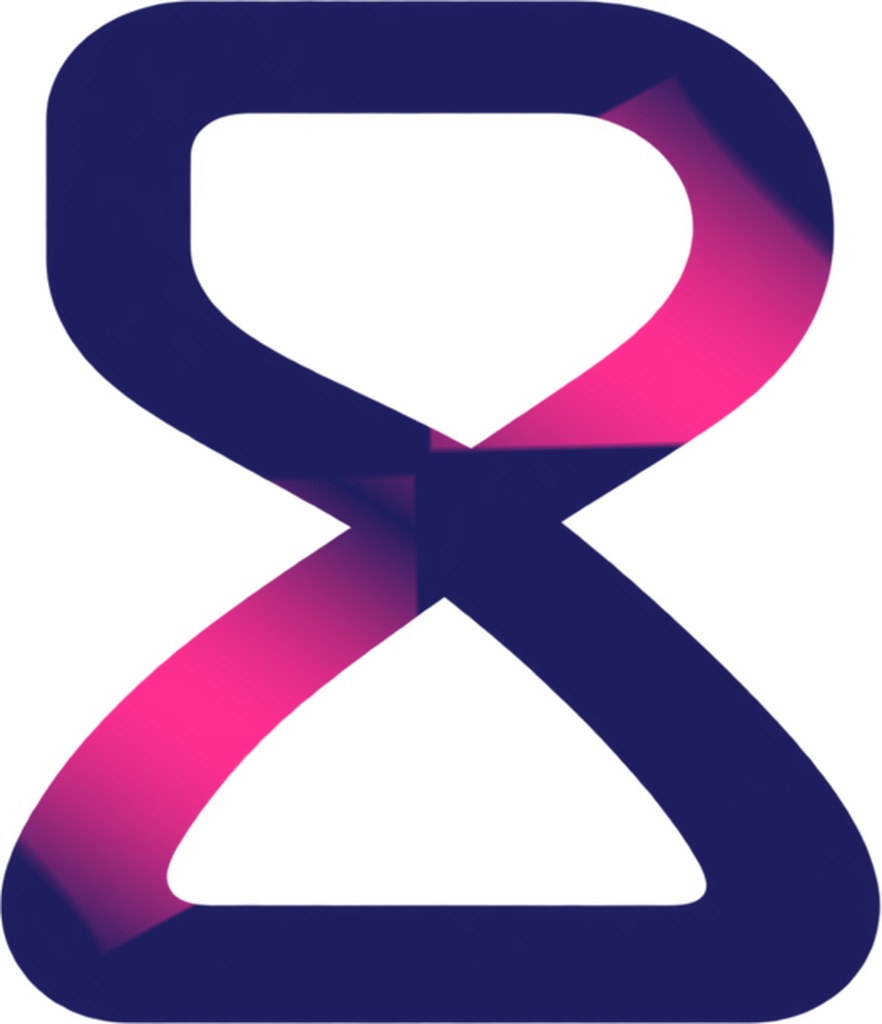
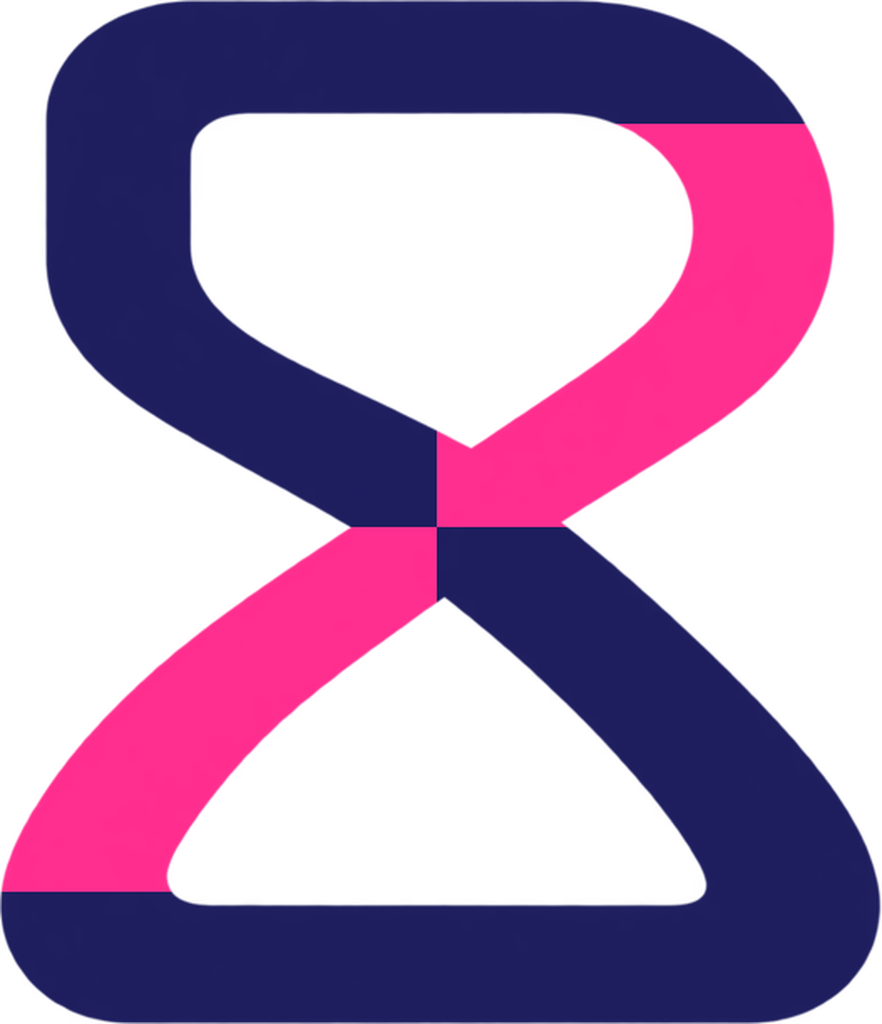
feat(web): 로고 교차부를 정리하고 상단바를 카드로 둔다
로고는 획을 실루엣에서 통째로 갈라 칠하고, 교차부는 두 획의 실제 중심을 이은 선을
기준으로 나눈다. 앞서는 직선을 눈대중으로 잡아 교차부에 얼룩이 남았다. 위아래
막대는 남색으로 두고 그 사이 획만 분홍이다. 자산도 22~1024px로 다시 뽑았다.

상단바가 회색 바탕에 맨몸으로 놓여 있어 모바일에서 위가 잘린 것처럼 보였다.
아래 카드들과 같은 흰 카드로 감싼다. 상세와 하위 화면 상단바 모두 같은 규칙이다.

Changed region(s): [[0.2449, 0.375, 0.7653, 0.6875], [0.6735, 0.0625, 0.949, 0.3438], [0.0, 0.7188, 0.2449, 0.9375]]

diff --git a/apps/web/src/styles/global.css b/apps/web/src/styles/global.css
@@ -394,11 +394,15 @@ a:focus-visible,
    버튼만 흰 동그라미로 띄운다. 둘이 달라 보이면 같은 깊이의 화면인데 다른 앱처럼 읽힌다. */
 .app-bar {
   display: grid;
-  height: 60px;
+  height: 56px;
   align-items: center;
   grid-template-columns: 42px 1fr 42px;
-  padding: 0 var(--djv-space-5);
-  background: transparent;
+  margin: 0 var(--djv-card-gutter) var(--djv-card-gap);
+  padding: 0 var(--djv-space-3);
+  border: 1px solid var(--djv-color-border);
+  border-radius: var(--djv-radius-xl);
+  background: var(--djv-color-surface);
+  box-shadow: var(--djv-shadow-card);
 }
 
 .app-bar > strong {
@@ -1236,6 +1240,7 @@ a:focus-visible,
 
 /* 예전에는 상단바와 아래 요약이 같은 브랜드색이라 200px 가까운 색 덩어리로 붙어 보였다.
    상단바는 바탕에 맡기고 요약만 카드로 띄운다. */
+/* 상단바만 바탕에 맨몸으로 놓이면 그 위가 잘려 보인다. 아래 카드들과 같은 흰 카드로 둔다. */
 .detail-app-bar {
   position: relative;
   z-index: 3;
@@ -1243,9 +1248,12 @@ a:focus-visible,
   height: 56px;
   align-items: center;
   grid-template-columns: 40px 1fr 40px;
-  /* 버튼이 화면 가장자리에 붙으면 외곽에 동떨어져 보인다. 카드 좌우 여백에 맞춘다. */
-  padding: 0 var(--djv-space-5);
-  background: transparent;
+  margin: 0 var(--djv-card-gutter) var(--djv-card-gap);
+  padding: 0 var(--djv-space-3);
+  border: 1px solid var(--djv-color-border);
+  border-radius: var(--djv-radius-xl);
+  background: var(--djv-color-surface);
+  box-shadow: var(--djv-shadow-card);
 }
 
 .detail-app-bar > span {
